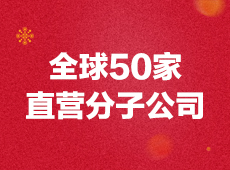
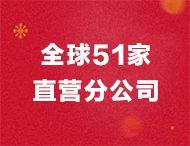
首页51家分公司 审核 淑琴

Changed region(s): [[0.1053, 0.5205, 0.8947, 0.7123], [0.2105, 0.274, 0.7895, 0.4932], [0.0789, 0.1918, 0.1053, 0.2466]]

diff --git a/views/index.html b/views/index.html
@@ -347,6 +347,14 @@
         {
         "companyName": "温哥华",
         "companyId": "49"
+        },
+        {
+        "companyName": "多伦多",
+        "companyId": "50"
+        },
+        {
+        "companyName": "奥克兰",
+        "companyId": "51"
         }
         ] %}
         {% for item in cityList %}
@@ -356,6 +364,12 @@
         </div>
         {% endif %}
         {% endfor %}
+        <div class="branch_company_text_tilte" data-id="{{cityList[50].companyId}}">
+          <a  href="http://www.jjl.cn/zt/overseas/2018_auckland/index.html" data-id="{{cityList[50].companyId}}" >{{cityList[50].companyName}}</a>
+        </div>
+        <div class="branch_company_text_tilte" data-id="{{cityList[49].companyId}}">
+          <a  href="http://www.jjl.cn/zt/overseas/2018_toronto/index.html" data-id="{{cityList[49].companyId}}" >{{cityList[49].companyName}}</a>
+        </div>
         <div class="branch_company_text_tilte" data-id="{{cityList[48].companyId}}">
           <a  href="http://www.jjl.cn/zt/overseas/vancouver/index.html" data-id="{{cityList[48].companyId}}" >{{cityList[48].companyName}}</a>
         </div>
